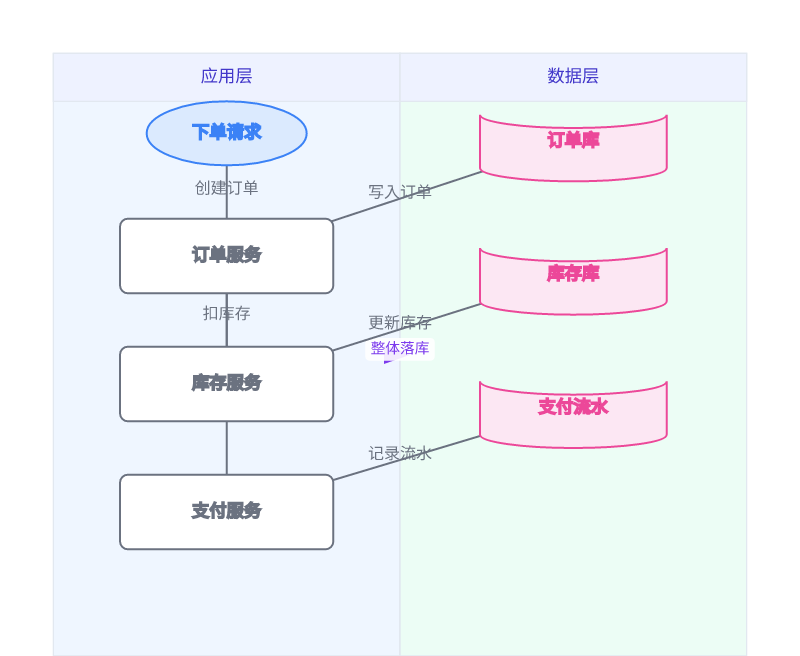
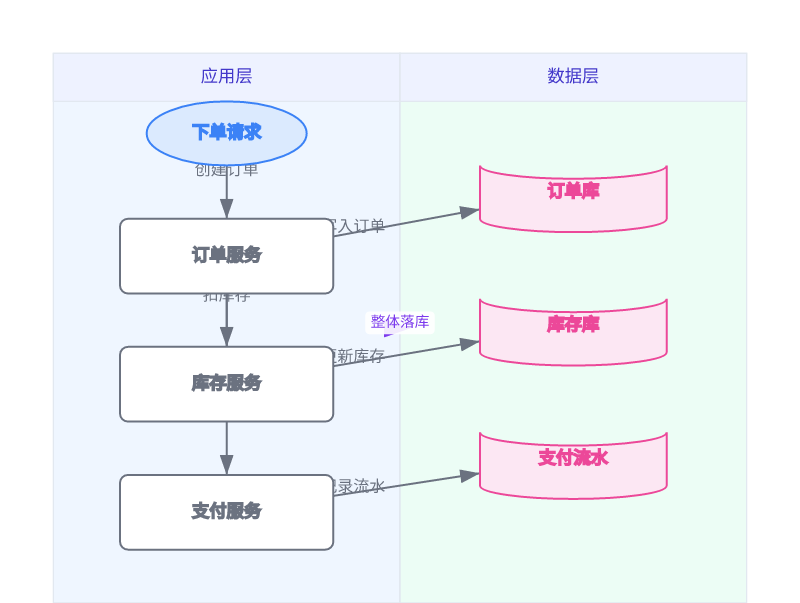
fix(layout): edge endpoints stop at target border (arrowheads visible)
center-to-center edges (mindmap / swimlane / grid fallback) drew the
line to the target CENTER, so the arrowhead marker was hidden under the
node's filled rect. borderPoint() trims the endpoint to the target box
border. datastream swimlanes also vertically center each lane's node
stack (no empty band at the bottom).
Verified by doubao: datastream + mindmap arrowheads clearly visible at
node edges; datastream lanes balanced with distinct backgrounds.

diff --git a/packages/layout/src/index.ts b/packages/layout/src/index.ts
@@ -62,6 +62,26 @@ function nodeEdges(doc: LgdlDocument): LgdlEdge[] {
   return doc.edges.filter((e) => ids.has(e.from) && ids.has(e.to));
 }
 
+/**
+ * Point on the target box border where a ray from the source center
+ * crosses it — edge endpoints stop at the border so the arrowhead stays
+ * visible (not hidden under the node's filled rect).
+ */
+function borderPoint(
+  from: { x: number; y: number },
+  to: { x: number; y: number; width: number; height: number },
+): { x: number; y: number } {
+  const bx = to.x + to.width / 2;
+  const by = to.y + to.height / 2;
+  const dx = bx - from.x;
+  const dy = by - from.y;
+  if (dx === 0 && dy === 0) return { x: bx, y: by };
+  const tX = dx !== 0 ? to.width / 2 / Math.abs(dx) : Infinity;
+  const tY = dy !== 0 ? to.height / 2 / Math.abs(dy) : Infinity;
+  const t = Math.min(tX, tY);
+  return { x: bx - dx * t, y: by - dy * t };
+}
+
 export function layoutDocument(doc: LgdlDocument): LayoutResult {
   // Large graphs: skip the expensive dagre layout, use O(n) grid.
   // This keeps the editor interactive; dagre quality matters for small/medium.
@@ -265,19 +285,19 @@ function layoutMindmap(doc: LgdlDocument): LayoutResult {
     height: p.height,
   }));
 
-  // edges: straight line from parent edge to child edge (center-to-center)
+  // edges: straight line from parent to child, ending at the child border
+  // so the arrowhead stays visible
   const edges: LayoutEdge[] = [];
   for (const node of tree.values()) {
     for (const child of node.children) {
       const p = placed.get(node.id)!;
       const c = placed.get(child)!;
+      const from = { x: p.x + p.width / 2 + shiftX, y: p.y + p.height / 2 + shiftY };
+      const toBox = { x: c.x + shiftX, y: c.y + shiftY, width: c.width, height: c.height };
       edges.push({
         from: node.id,
         to: child,
-        points: [
-          { x: p.x + p.width / 2 + shiftX, y: p.y + p.height / 2 + shiftY },
-          { x: c.x + c.width / 2 + shiftX, y: c.y + c.height / 2 + shiftY },
-        ],
+        points: [from, borderPoint(from, toBox)],
       });
     }
   }
@@ -373,23 +393,37 @@ function layoutSwimlane(doc: LgdlDocument): LayoutResult {
   const sizeOf = (id: string) =>
     NODE_SIZE[doc.nodes.find((n) => n.id === id)?.kind ?? 'process'] ?? NODE_SIZE.process;
 
+  // pass 1: content height per lane (stacked nodes + gaps), overall = max
+  const laneHeights = new Map<string, number>();
+  let maxContent = 0;
+  for (const lane of effectiveLanes) {
+    const ids = laneNodes.get(lane.id) ?? [];
+    let h = 0;
+    for (const id of ids) h += sizeOf(id).height + 40;
+    const content = Math.max(h - 40, 0);
+    laneHeights.set(lane.id, content);
+    maxContent = Math.max(maxContent, content);
+  }
+  const contentTop = GRAPH_MARGIN + LANE_HEADER;
+
+  // pass 2: place nodes, vertically centering each lane's stack so short
+  // lanes don't leave a big empty band at the bottom
   const nodePos = new Map<string, { x: number; y: number; width: number; height: number }>();
-  let maxHeight = 0;
   effectiveLanes.forEach((lane, li) => {
     const ids = laneNodes.get(lane.id) ?? [];
-    let y = GRAPH_MARGIN + LANE_HEADER;
+    const total = laneHeights.get(lane.id) ?? 0;
+    let y = contentTop + (maxContent - total) / 2;
     for (const id of ids) {
       const size = sizeOf(id);
       const x = GRAPH_MARGIN + li * LANE_W + (LANE_W - size.width) / 2;
       nodePos.set(id, { x, y, width: size.width, height: size.height });
       y += size.height + 40;
     }
-    maxHeight = Math.max(maxHeight, y);
   });
 
   const nodes: LayoutNode[] = doc.nodes.map((n) => ({ id: n.id, ...nodePos.get(n.id)! }));
   const width = GRAPH_MARGIN * 2 + effectiveLanes.length * LANE_W;
-  const height = maxHeight + GRAPH_MARGIN;
+  const height = contentTop + maxContent + GRAPH_MARGIN;
 
   // edges: straight center-to-center lines (crossing lanes)
   const edges: LayoutEdge[] = nodeEdges(doc).map((e) => {
@@ -400,7 +434,7 @@ function layoutSwimlane(doc: LgdlDocument): LayoutResult {
       to: e.to,
       points: [
         { x: a.x + a.width / 2, y: a.y + a.height / 2 },
-        { x: b.x + b.width / 2, y: b.y + b.height / 2 },
+        borderPoint({ x: a.x + a.width / 2, y: a.y + a.height / 2 }, b),
       ],
     };
   });
@@ -501,7 +535,7 @@ function layoutGrid(doc: LgdlDocument): LayoutResult {
       to: e.to,
       points: [
         { x: a.x + a.width / 2, y: a.y + a.height / 2 },
-        { x: b.x + b.width / 2, y: b.y + b.height / 2 },
+        borderPoint({ x: a.x + a.width / 2, y: a.y + a.height / 2 }, b),
       ],
     };
   });
